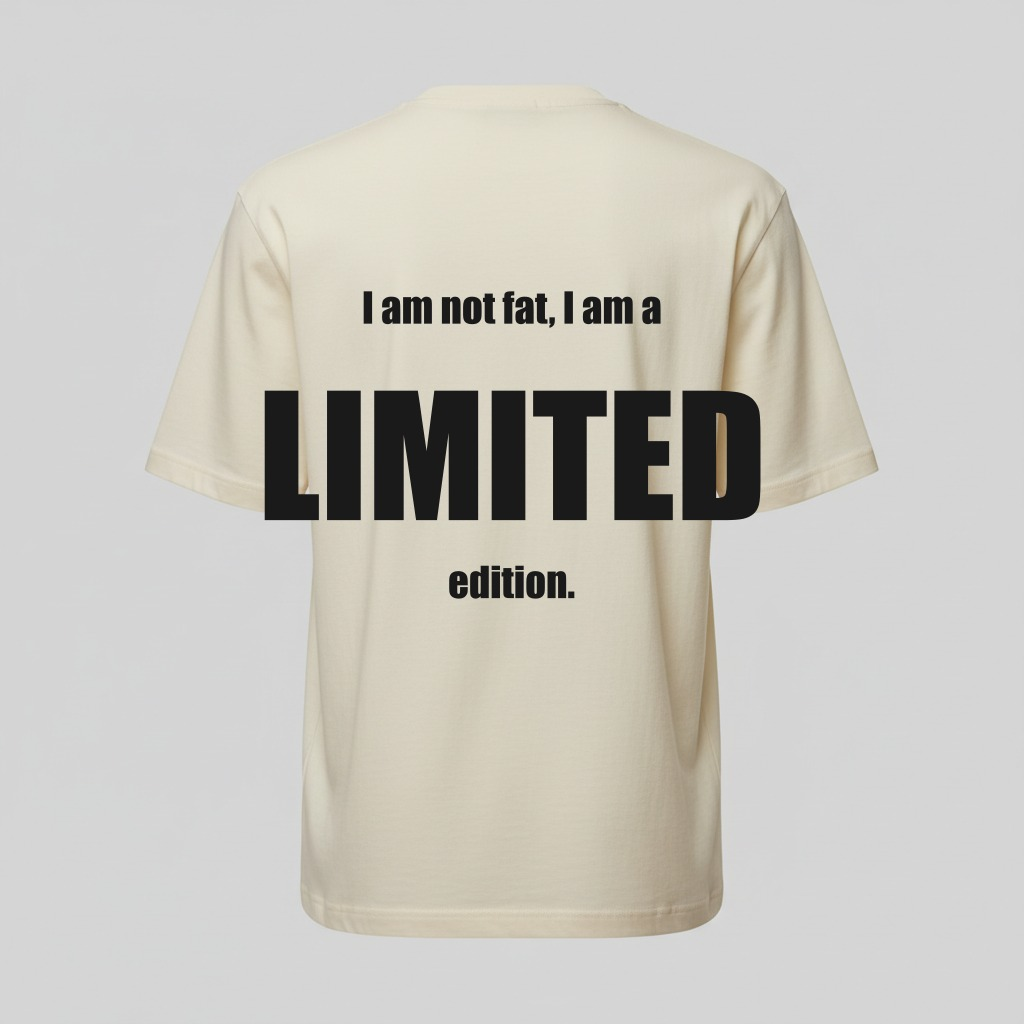
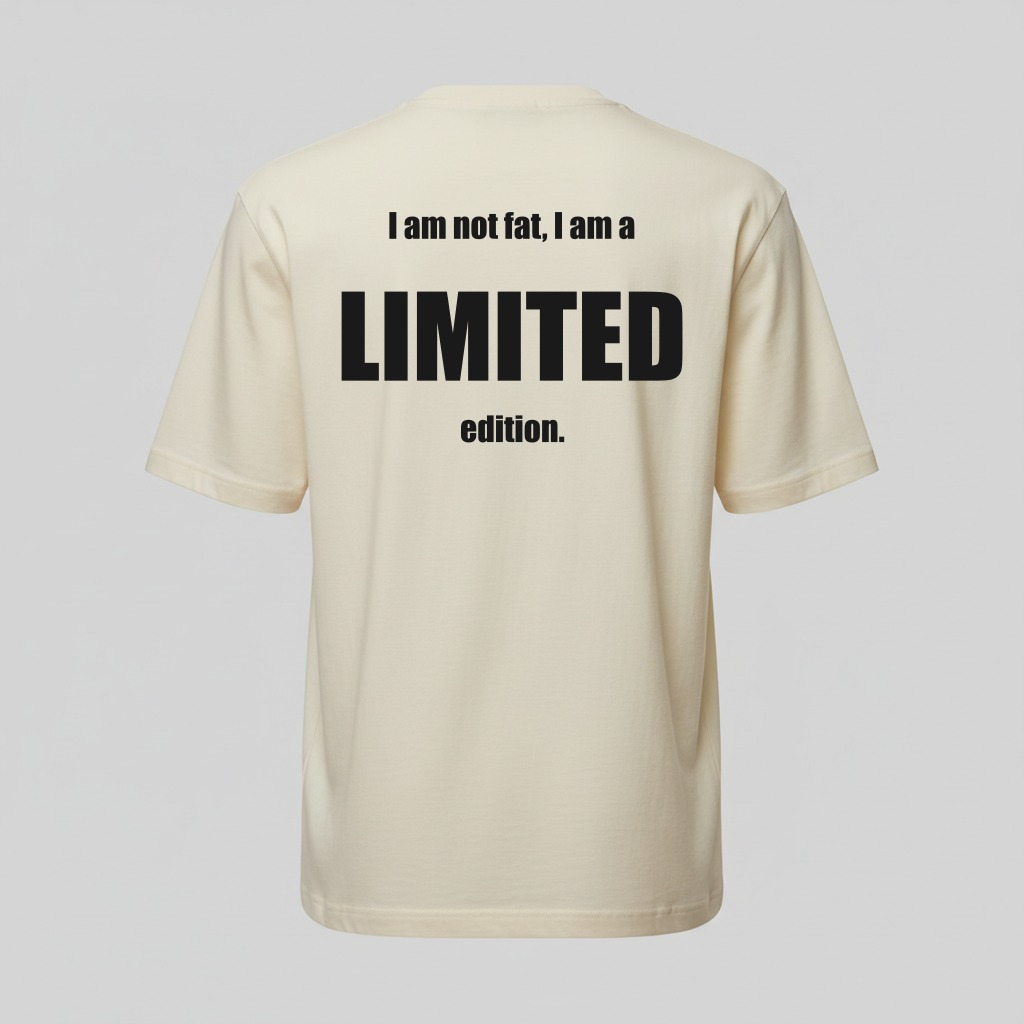
fix(mockups): reposition DUBIS chest-left (0.38/0.20) + shrink slogan 11% of height
Feedback from oren: DUBIS was on background not on shirt body; LIMITED overflowed bottom. Recalibrated for Gemini blank framing (shirt body at x=30-75%, y=10-85%). Added horizontal text-fit guard so text never exceeds 42% of canvas width.

Changed region(s): [[0.25, 0.2812, 0.75, 0.5938], [0.375, 0.1875, 0.625, 0.25]]

diff --git a/scripts/composite-mockups.js b/scripts/composite-mockups.js
@@ -104,13 +104,17 @@ const DARK_COLORS = new Set(['Black','Charcoal','Navy','Forest Green']);
 
 // ─────────────────────────────────────────────────────────────────
 // Draw the DUBIS™ chest-left logo onto the front canvas.
-// Positioning is RELATIVE to canvas size, so works regardless of image dims.
-// Matches scripts/generate-designs.js LOGO_CENTER_X_RATIO/Y_RATIO + LOGO_FONT_SIZE.
+// Positioning is RELATIVE to canvas size. Calibrated against the Gemini
+// blanks (2026-04-24): shirt body occupies ~ x=30%..75%, y=10%..90% of the
+// canvas. Chest-left pocket area on a real shirt is ~ 20% from left edge
+// of the shirt body, ~ 18% down from the collar. Translated to canvas:
+//   x = 0.30 + 0.20 * (0.75 - 0.30) = 0.39
+//   y = 0.10 + 0.18 * (0.90 - 0.10) = 0.244
+// We round to 0.38 / 0.20 for a hair of margin.
 // ─────────────────────────────────────────────────────────────────
-const LOGO_CENTER_X_RATIO = 0.28;  // slightly right-shifted vs 22% — the blank photo
-                                    // has the shirt shifted slightly left due to ghost-mannequin framing
-const LOGO_CENTER_Y_RATIO = 0.24;
-const LOGO_WIDTH_RATIO    = 0.13;  // DUBIS fills ~13% of image width → ≈ 2-3cm on garment
+const LOGO_CENTER_X_RATIO = 0.38;  // chest-left on the shirt body, not on background
+const LOGO_CENTER_Y_RATIO = 0.20;  // upper chest, just below collar line
+const LOGO_WIDTH_RATIO    = 0.09;  // DUBIS fills ~9% of image width → fits within shirt body
 
 function drawFrontLogo(ctx, w, h, color) {
   const inkColor = DARK_COLORS.has(color) ? '#ffffff' : '#1a1a1a';
@@ -157,58 +161,84 @@ function drawBackSlogan(ctx, w, h, color, product) {
 
   const centerX = w / 2;
 
-  if (product.layout === 'top-bottom') {
-    // Proportional sizes relative to image height
-    const bigH   = h * 0.16;    // BIG word ~16% of image height
-    const smallH = h * 0.04;    // small text ~4%
-    const afterH = h * 0.04;    // after text ~4%
+  // Shirt back body in the Gemini blanks occupies roughly y=10%..85% of canvas.
+  // Slogan must fit ENTIRELY within y=20%..70% to avoid hitting hem/bottom.
+  // Total vertical budget = 0.50 of canvas height.
+  //
+  // We also constrain the BIG word to ~12% of image height (was 16% — too tall),
+  // and verify the text horizontally fits within shirt body width (~45% of canvas).
+  //
+  // Horizontal constraint: shirt body is x=30%..75%, centered at 52.5% of canvas,
+  // width = 45% of canvas. BIG word must be < 42% of canvas width to have margin.
 
-    let curY = h * 0.30;
+  const MAX_TEXT_WIDTH = w * 0.42;  // horizontal budget
+
+  function fitFontSize(text, targetHeight) {
+    let fs = targetHeight;
+    setFont(ctx, fs);
+    while (ctx.measureText(text).width > MAX_TEXT_WIDTH && fs > 10) {
+      fs *= 0.95;
+      setFont(ctx, fs);
+    }
+    return fs;
+  }
+
+  if (product.layout === 'top-bottom') {
+    const bigH   = h * 0.11;    // BIG word ~11% (was 16%)
+    const smallH = h * 0.033;   // small text ~3.3% (was 4%)
+    const afterH = h * 0.033;
+
+    let curY = h * 0.22;         // start higher (was 0.30)
 
     if (product.small) {
-      setFont(ctx, smallH);
       const lines = product.small.split('\n');
       for (const line of lines) {
+        const fs = fitFontSize(line, smallH);
+        setFont(ctx, fs);
         ctx.fillText(line, centerX, curY);
-        curY += smallH * 1.2;
+        curY += fs * 1.25;
       }
-      curY += smallH * 0.4; // gap before BIG
+      curY += smallH * 0.35;
     }
 
     if (product.big) {
-      setFont(ctx, bigH);
-      ctx.fillText(product.big, centerX, curY + bigH / 2);
-      curY += bigH * 1.05 + bigH * 0.15;
+      const fs = fitFontSize(product.big, bigH);
+      setFont(ctx, fs);
+      ctx.fillText(product.big, centerX, curY + fs / 2);
+      curY += fs * 1.05 + fs * 0.20;
     }
 
     if (product.after) {
-      setFont(ctx, afterH);
-      curY += afterH * 0.3;
+      curY += afterH * 0.25;
       const lines = product.after.split('\n');
       for (const line of lines) {
+        const fs = fitFontSize(line, afterH);
+        setFont(ctx, fs);
         ctx.fillText(line, centerX, curY);
-        curY += afterH * 1.2;
+        curY += fs * 1.25;
       }
     }
   } else if (product.layout === 'big-top') {
-    const bigH   = h * 0.14;
-    const afterH = h * 0.04;
+    const bigH   = h * 0.11;
+    const afterH = h * 0.033;
 
-    let curY = h * 0.30;
+    let curY = h * 0.22;
 
     if (product.big) {
-      setFont(ctx, bigH);
-      ctx.fillText(product.big, centerX, curY + bigH / 2);
-      curY += bigH * 1.2;
+      const fs = fitFontSize(product.big, bigH);
+      setFont(ctx, fs);
+      ctx.fillText(product.big, centerX, curY + fs / 2);
+      curY += fs * 1.25;
     }
 
     if (product.after) {
-      setFont(ctx, afterH);
       curY += afterH * 0.5;
       const lines = product.after.split('\n');
       for (const line of lines) {
+        const fs = fitFontSize(line, afterH);
+        setFont(ctx, fs);
         ctx.fillText(line, centerX, curY);
-        curY += afterH * 1.3;
+        curY += fs * 1.3;
       }
     }
   }
